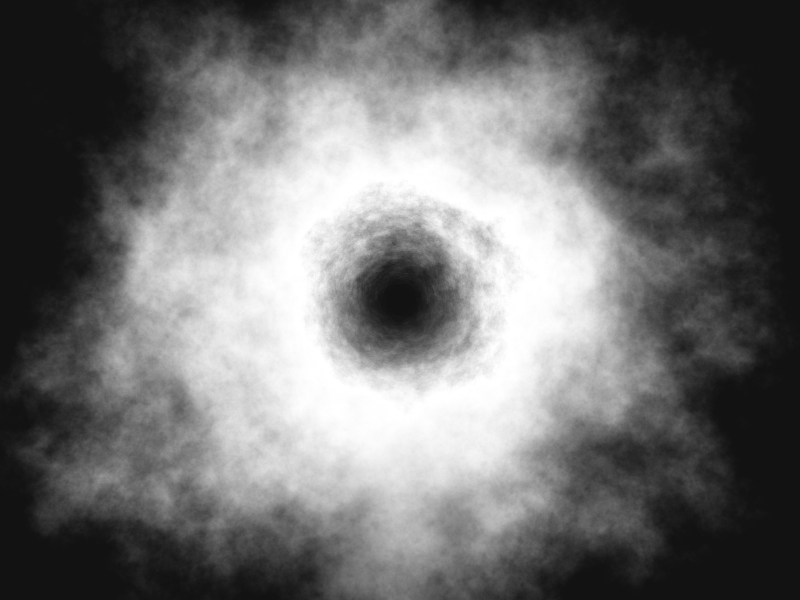
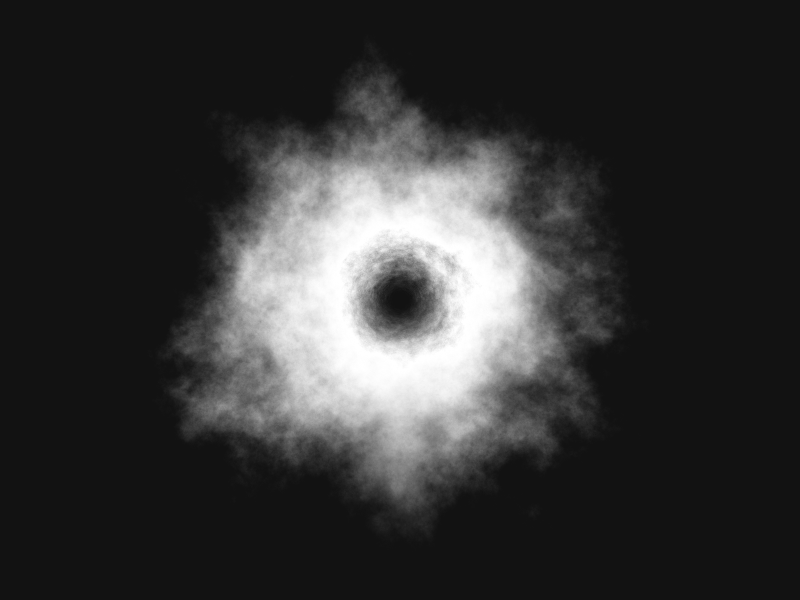
clean

diff --git a/docs/src/home-shaders.ts b/docs/src/home-shaders.ts
@@ -93,174 +93,174 @@ export const homeShaders = [
     url: '/grain-gradient',
     ShaderComponent: GrainGradient,
     image: grainGradientImg,
-    shaderConfig: { ...grainGradientPresets[0].params, speed: 0 },
+    shaderConfig: { ...grainGradientPresets[0].params, frame: 7000, speed: 2 },
   },
   {
     name: 'mesh gradient',
     image: meshGradientImg,
     url: '/mesh-gradient',
     ShaderComponent: MeshGradient,
-    shaderConfig: { ...meshGradientPresets[0].params, speed: 0 },
+    shaderConfig: { ...meshGradientPresets[0].params, frame: 41500 },
   },
   {
     name: 'static mesh gradient',
     url: '/static-mesh-gradient',
     ShaderComponent: StaticMeshGradient,
     image: staticMeshGradientImg,
-    shaderConfig: { ...staticMeshGradientPresets[0].params, speed: 0 },
+    shaderConfig: { ...staticMeshGradientPresets[0].params, rotation: 270 },
   },
   {
     name: 'static radial gradient',
     url: '/static-radial-gradient',
     ShaderComponent: StaticRadialGradient,
     image: staticRadialGradientImg,
-    shaderConfig: { ...staticRadialGradientPresets[0].params, speed: 0 },
+    shaderConfig: { ...staticRadialGradientPresets[0].params, scale: 0.7 },
   },
   {
     name: 'dithering',
     url: '/dithering',
     ShaderComponent: Dithering,
     image: ditheringImg,
-    shaderConfig: { ...ditheringPresets[4].params, speed: 0 },
+    shaderConfig: { ...ditheringPresets[0].params, scale: 0.45 },
   },
   {
     name: 'dot orbit',
     image: dotOrbitImg,
     url: '/dot-orbit',
     ShaderComponent: DotOrbit,
-    shaderConfig: { ...dotOrbitPresets[0].params, speed: 0 },
+    shaderConfig: { ...dotOrbitPresets[0].params, scale: 0.45 },
   },
   {
     name: 'dot grid',
     url: '/dot-grid',
     ShaderComponent: DotGrid,
     image: dotGridImg,
-    shaderConfig: { ...dotGridPresets[0].params, speed: 0 },
+    shaderConfig: { ...dotGridPresets[0].params, scale: 1.1, size: 2 },
   },
   {
     name: 'warp',
     url: '/warp',
     ShaderComponent: Warp,
     image: warpImg,
-    shaderConfig: { ...warpPresets[0].params, speed: 0 },
+    shaderConfig: { ...warpPresets[0].params, speed: 2, offsetX: -0.2, scale: 0.6, frame: 20000 },
   },
   {
     name: 'spiral',
     url: '/spiral',
     ShaderComponent: Spiral,
     image: spiralImg,
-    shaderConfig: { ...spiralPresets[0].params, speed: 0 },
+    shaderConfig: { ...spiralPresets[0].params, scale: 0.5, speed: 2 },
   },
   {
     name: 'swirl',
     url: '/swirl',
     ShaderComponent: Swirl,
     image: swirlImg,
-    shaderConfig: { ...swirlPresets[0].params, speed: 0 },
+    shaderConfig: { ...swirlPresets[0].params, speed: 0.7 },
   },
   {
     name: 'waves',
     url: '/waves',
     ShaderComponent: Waves,
     image: wavesImg,
-    shaderConfig: { ...wavesPresets[0].params, speed: 0 },
+    shaderConfig: { ...wavesPresets[0].params, scale: 0.9 },
   },
   {
     name: 'neuro noise',
     image: neuroNoiseImg,
     url: '/neuro-noise',
     ShaderComponent: NeuroNoise,
-    shaderConfig: { ...neuroNoisePresets[0].params, speed: 0 },
+    shaderConfig: { ...neuroNoisePresets[0].params, scale: 0.6, frame: 1500, offsetX: -0.17 },
   },
   {
     name: 'perlin',
     url: '/perlin-noise',
     ShaderComponent: PerlinNoise,
     image: perlinNoiseImg,
-    shaderConfig: { ...perlinNoisePresets[0].params, speed: 0 },
+    shaderConfig: { ...perlinNoisePresets[0].params, scale: 0.8, speed: 0.2 },
   },
   {
     name: 'simplex noise',
     image: simplexNoiseImg,
     url: '/simplex-noise',
     ShaderComponent: SimplexNoise,
-    shaderConfig: { ...simplexNoisePresets[0].params, speed: 0 },
+    shaderConfig: { ...simplexNoisePresets[0].params, scale: 0.4 },
   },
   {
     name: 'voronoi',
     url: '/voronoi',
     ShaderComponent: Voronoi,
     image: voronoiImg,
-    shaderConfig: { ...voronoiPresets[0].params, speed: 0 },
+    shaderConfig: { ...voronoiPresets[0].params, scale: 0.35 },
   },
   {
     name: 'pulsing border',
     url: '/pulsing-border',
     ShaderComponent: PulsingBorder,
     image: pulsingBorderImg,
-    shaderConfig: { ...pulsingBorderPresets[0].params, speed: 0 },
+    shaderConfig: { ...pulsingBorderPresets[0].params, scale: 0.45 },
   },
   {
     name: 'metaballs',
     image: metaballsImg,
     url: '/metaballs',
     ShaderComponent: Metaballs,
-    shaderConfig: { ...metaballsPresets[0].params, speed: 0 },
+    shaderConfig: { ...metaballsPresets[0].params, scale: 0.7, frame: 21300, offsetY: -0.01 },
   },
   {
     name: 'color panels',
     url: '/color-panels',
     ShaderComponent: ColorPanels,
     image: colorPanelsImg,
-    shaderConfig: { ...colorPanelsPresets[0].params, speed: 0 },
+    shaderConfig: { ...colorPanelsPresets[0].params, speed: 2, scale: 0.6 },
   },
   {
     name: 'smoke ring',
     image: smokeRingImg,
     url: '/smoke-ring',
     ShaderComponent: SmokeRing,
-    shaderConfig: { ...smokeRingPresets[0].params, speed: 0 },
+    shaderConfig: { ...smokeRingPresets[0].params, scale: 0.6, speed: 2 },
   },
   {
     name: 'liquid metal',
     url: '/liquid-metal',
     ShaderComponent: LiquidMetal,
     image: liquidMetalImg,
-    shaderConfig: { ...liquidMetalPresets[0].params, speed: 0 },
+    shaderConfig: { ...liquidMetalPresets[0].params, scale: 0.45 },
   },
   {
     name: 'god rays',
     url: '/god-rays',
     ShaderComponent: GodRays,
     image: godRaysImg,
-    shaderConfig: { ...godRaysPresets[0].params, speed: 0 },
+    shaderConfig: { ...godRaysPresets[0].params, speed: 2, scale: 0.5, offsetY: -0.5 },
   },
   {
     name: 'paper texture',
     url: '/paper-texture',
     ShaderComponent: PaperTexture,
     image: paperTextureImg,
-    shaderConfig: { ...paperTexturePresets[0].params, speed: 0 },
+    shaderConfig: { ...paperTexturePresets[0].params, scale: 0.8 },
   },
   {
     name: 'fluted glass',
     url: '/fluted-glass',
     ShaderComponent: FlutedGlass,
     image: flutedGlassImg,
-    shaderConfig: { ...flutedGlassPresets[0].params, speed: 0 },
+    shaderConfig: { ...flutedGlassPresets[0].params, scale: 0.8, count: 32 },
   },
   {
     name: 'image dithering',
     url: '/image-dithering',
     ShaderComponent: ImageDithering,
     image: imageDitheringImg,
-    shaderConfig: { ...imageDitheringPresets[1].params, speed: 0 },
+    shaderConfig: { ...imageDitheringPresets[0].params, scale: 0.8 },
   },
   {
     name: 'water',
     url: '/water',
     ShaderComponent: Water,
     image: waterImg,
-    shaderConfig: { ...waterPresets[0].params, speed: 0 },
+    shaderConfig: { ...waterPresets[0].params, scale: 0.8 },
   },
 ] satisfies HomeShaderConfig[];

diff --git a/packages/shaders/src/shaders/grain-gradient.ts b/packages/shaders/src/shaders/grain-gradient.ts
@@ -4,6 +4,7 @@ import {
   sizingVariablesDeclaration,
   type ShaderSizingParams,
   type ShaderSizingUniforms,
+  sizingDebugVariablesDeclaration,
 } from '../shader-sizing.js';
 import {
   simplexNoise,
@@ -72,6 +73,7 @@ uniform mediump float u_offsetX;
 uniform mediump float u_offsetY;
 
 ${sizingVariablesDeclaration}
+${ sizingDebugVariablesDeclaration }
 
 out vec4 fragColor;
 
@@ -80,29 +82,6 @@ ${simplexNoise}
 ${rotation2}
 ${proceduralHash21}
 ${textureRandomizerR}
-float valueNoise(vec2 st) {
-  vec2 i = floor(st);
-  vec2 f = fract(st);
-  float a = hash21(i);
-  float b = hash21(i + vec2(1.0, 0.0));
-  float c = hash21(i + vec2(0.0, 1.0));
-  float d = hash21(i + vec2(1.0, 1.0));
-  vec2 u = f * f * (3.0 - 2.0 * f);
-  float x1 = mix(a, b, u.x);
-  float x2 = mix(c, d, u.x);
-  return mix(x1, x2, u.y);
-}
-float fbm(vec2 n) {
-  float total = 0.;
-  float amplitude = .2;
-  for (int i = 0; i < 3; i++) {
-    n = rotate(n, .3);
-    total += valueNoise(n) * amplitude;
-    n += n;
-    amplitude *= 0.6;
-  }
-  return total;
-}
 
 float valueNoiseR(vec2 st) {
   vec2 i = floor(st);
@@ -184,7 +163,7 @@ void main() {
 
     grain_uv1 *= objectWorldScale;
     addon = (boxOrigin * (objectWorldScale - 1.));
-    grain_uv1 *= 350.;
+    grain_uv1 *= 320.;
 
   } else {
     shape_uv = .5 * v_patternUV;
@@ -218,10 +197,10 @@ void main() {
   }
 
   grain_uv2 = grain_uv1 * .4;
-  grain_uv3 = grain_uv1 * .004;
-  grain_uv4 = grain_uv1 * .006;
+  grain_uv3 = grain_uv1 * .01;
+  grain_uv4 = grain_uv1 * .015;
   grain_uv5 = grain_uv1 * .8;
-  grain_uv6 = grain_uv1 * .002;
+  grain_uv6 = grain_uv1 * .005;
   grain_uv1 += addon;
   grain_uv2 += addon;
   grain_uv3 += addon;
@@ -323,7 +302,7 @@ void main() {
 
   float simplex = snoise(grain_uv1);
   float grainDist = simplex * snoise(grain_uv2) - fbmR(grain_uv3) - fbmR(grain_uv4);
-  float noise = clamp(.65 * simplex - fbm(grain_uv5) - fbm(grain_uv6), 0., 1.);
+  float noise = clamp(.65 * simplex - fbmR(grain_uv5) - fbmR(grain_uv6), 0., 1.);
 
   shape += u_intensity * 2. / u_colorsCount * (grainDist + .5);
   shape += u_noise * 10. / u_colorsCount * noise;

diff --git a/docs/src/components/shader-item.tsx b/docs/src/components/shader-item.tsx
@@ -27,19 +27,19 @@ export function ShaderItem({
   const [isHovered, setIsHovered] = useState(false);
   const [showShader, setShowShader] = useState(false);
 
-  const handleClick = (e: React.MouseEvent) => {
-    e.preventDefault();
-    setShowShader((prev) => !prev); // toggle instead of always true
-    setIsHovered((prev) => !prev); // toggle instead of always true
-  };
-
   return (
     <Link href={url} className="flex flex-col gap-2">
       <div
-        className={`relative aspect-[4/3] overflow-hidden rounded-3xl border-4 shadow ${
-          showShader ? 'border-green-500' : 'border-red-500'
-        }`}
-        onClick={handleClick}
+        className="relative aspect-[4/3] overflow-hidden rounded-3xl bg-[#f7f6f0] shadow"
+        onMouseEnter={() => {
+          // Disable shaders on small (touch) devices to prevent choppy hover transitions.
+          // On these screens, prioritize a sharp static preview over a degraded shader effect.
+          if (window.innerWidth > 640) {
+            setIsHovered(true);
+            setShowShader(true);
+          }
+        }}
+        onMouseLeave={() => setIsHovered(false)}
       >
         {image && (
           <>
@@ -54,10 +54,17 @@ export function ShaderItem({
               <ShaderComponent
                 className="absolute left-1/2 top-1/2 -ml-[150px] -mt-[112px] block h-[225px] w-[300px] max-w-none sm:-ml-[200px] sm:-mt-[150px] sm:h-[300px] sm:w-[400px]"
                 style={{
+                  // Some shaders are transparent, adding a background to not see the preview image through
                   opacity: isHovered ? 1 : 0,
+                  transition: 'opacity 400ms ease-out',
                   ...style,
                 }}
                 {...shaderConfig}
+                onTransitionEnd={() => {
+                  if (!isHovered) {
+                    setShowShader(false);
+                  }
+                }}
               />
             )}
           </>

diff --git a/packages/shaders/src/shader-mount.ts b/packages/shaders/src/shader-mount.ts
@@ -287,6 +287,7 @@ export class ShaderMount {
     } else {
       this.rafId = null;
     }
+
   };
 
   private requestRender = () => {
